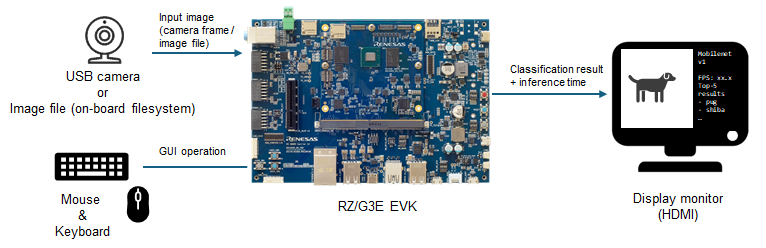
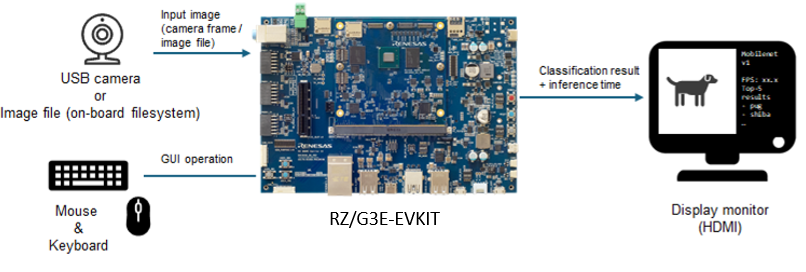
board name correction

diff --git a/application_examples/README.md b/application_examples/README.md
@@ -3,7 +3,7 @@
 This directory contains sample AI applications for Renesas RZ/G3E using the RUHMI AI Framework runtime.
 
 The guidance below uses the pre-buld binaries to run the application. The software package providing the pre-build binaries can be downloaded from [RZ/G3E Ethos Support Package](https://www.renesas.com/en/software-tool/rzg3e-ethos-support-package).
-also, in case you build the envronment by yourself on the target board, you need to get [RZ/G3E Ethos Support Package](https://www.renesas.com/en/software-tool/rzg3e-ethos-support-package). You can also refer to the [Renesas Rz/G3E NPU(Ethos0U55) SUpport](https://renesas-rz.github.io/rz-ethos-u-docs/) for more detail understanding. 
+also, in case you build the envronment by yourself on RZ/G3E-EVKIT, you need to get [RZ/G3E Ethos Support Package](https://www.renesas.com/en/software-tool/rzg3e-ethos-support-package). You can also refer to the [Renesas Rz/G3E NPU(Ethos0U55) SUpport](https://renesas-rz.github.io/rz-ethos-u-docs/) for more detail understanding. 
 
 
 ## Included Examples
@@ -36,7 +36,7 @@ This section shows **the common procedure** to run the application example which
 Please prepare the following hardware equipment.
 | Equipment	| Details |
 | --- | ---| 
-| RZ/G3E SMARC EVK | Evaluation Board Kit for RZ/G3E. Includes the microUSB to serial cable for serial communication. |
+| RZ/G3E-EVKIT | Evaluation Board Kit for RZ/G3E. Includes the microUSB to serial cable for serial communication. |
 | USB Type-C Power Supply | 65W rated PD power supply to power the board.|
 | USB Cable Type-C | 65W rated USB Type-C cable used to connect the power supply to the board. |
 | HDMI Display | Used to display graphics of the board |
@@ -114,7 +114,7 @@ sync
 sudo umount /mnt/sd
 sudo eject /dev/sdb
 ```
-## 4. Run the application with Linux on EK-RZ/G3E board
+## 4. Run the application with Linux on RZ/G3E-EVKIT
 
 ### Boot Procedure
 
@@ -146,7 +146,7 @@ eSD Boot Mode setting
 >Parity = none  
 >Flow control = off  
 
-4. Power ON the board by pressing the POWER button for at least 1 second.  
+4. Power ON RZ/G3E-EVKIT by pressing the POWER button for at least 1 second.  
 **Powering with LED status**  
 ![](../docs/assets/Powering.gif)
 
@@ -165,7 +165,7 @@ Saving Environment to MMC... Writing to MMC(0)... OK
 =>
 ```
 
-7.	Reboot the board by pressing the RESET button.
+7.	Reboot RZ/G3E-EVKIT by pressing the RESET button.
 Since the U-Boot environment is saved, autoboot no longer needs to be stopped in the future.
 
 8.	Once Linux has booted up, login with `root` (no password).

diff --git a/README.md b/README.md
@@ -16,7 +16,7 @@ RUHMI Framework provides tools to compile machine learning models into deploymen
 
 ## Workflow
 
-This repository provides the guidance for how to use RUHMI AI model compiler. Also provides some application examples with the the guidance for how to run on EK-RZ/G3E board.
+This repository provides the guidance for how to use RUHMI AI model compiler. Also provides some application examples with the the guidance for how to run on RZ/G3E-EVKIT.
 
 ![RZ/G3E Application development flow](docs/assets/g3e_workflow.gif)
 

diff --git a/application_examples/image_classification/README.md b/application_examples/image_classification/README.md
@@ -11,7 +11,7 @@ The model is compiled with the RUHMI AI Framework and executed with Ethos-U55 ac
 
 ## Target Environment
 
-- Board: RZ/G3E EVK
+- Board: RZ/G3E-EVKIT
 - Software: RZ/G3E Ethos-U Package (including RUHMI runtime)
 - Peripherals:
   - USB camera
@@ -67,7 +67,7 @@ Generated binary: `src/build/image_classification`
 
 ## Run
 
-Copy files to board:
+Copy files to RZ/G3E-EVKIT:
 
 ```bash
 scp -r exe/ root@<TARGET_IP>:/home/root/

diff --git a/application_examples/face_detection/README.md b/application_examples/face_detection/README.md
@@ -12,7 +12,7 @@ The model is compiled with the RUHMI AI Framework and executed with Ethos-U55 ac
 
 ## Target Environment
 
-- Board: RZ/G3E EVK
+- Board: RZ/G3E-EVKIT
 - Software: RZ/G3E Ethos-U Package (including RUHMI runtime)
 - Peripherals:
   - USB camera
@@ -65,7 +65,7 @@ Generated binary: `src/build/face_detection`
 
 ## Run
 
-Copy files to board:
+Copy files to RZ/G3E-EVKIT:
 
 ```bash
 scp -r exe/ root@<TARGET_IP>:/home/root/
